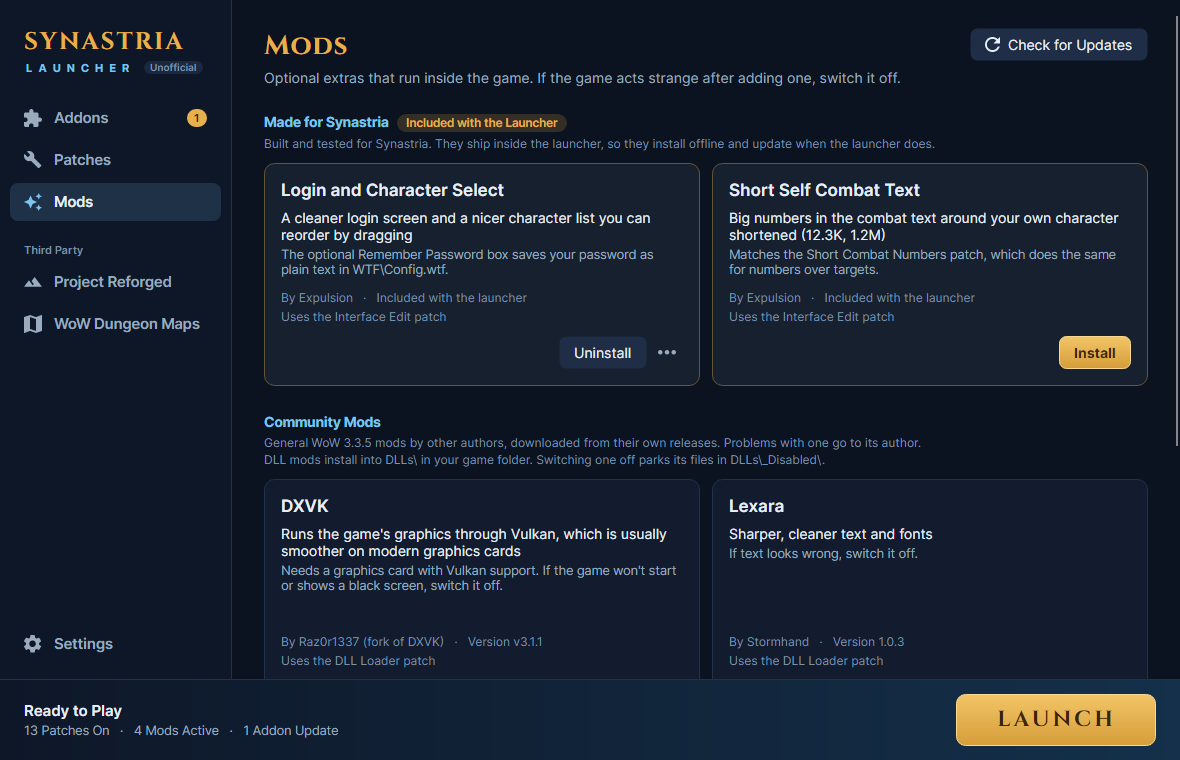
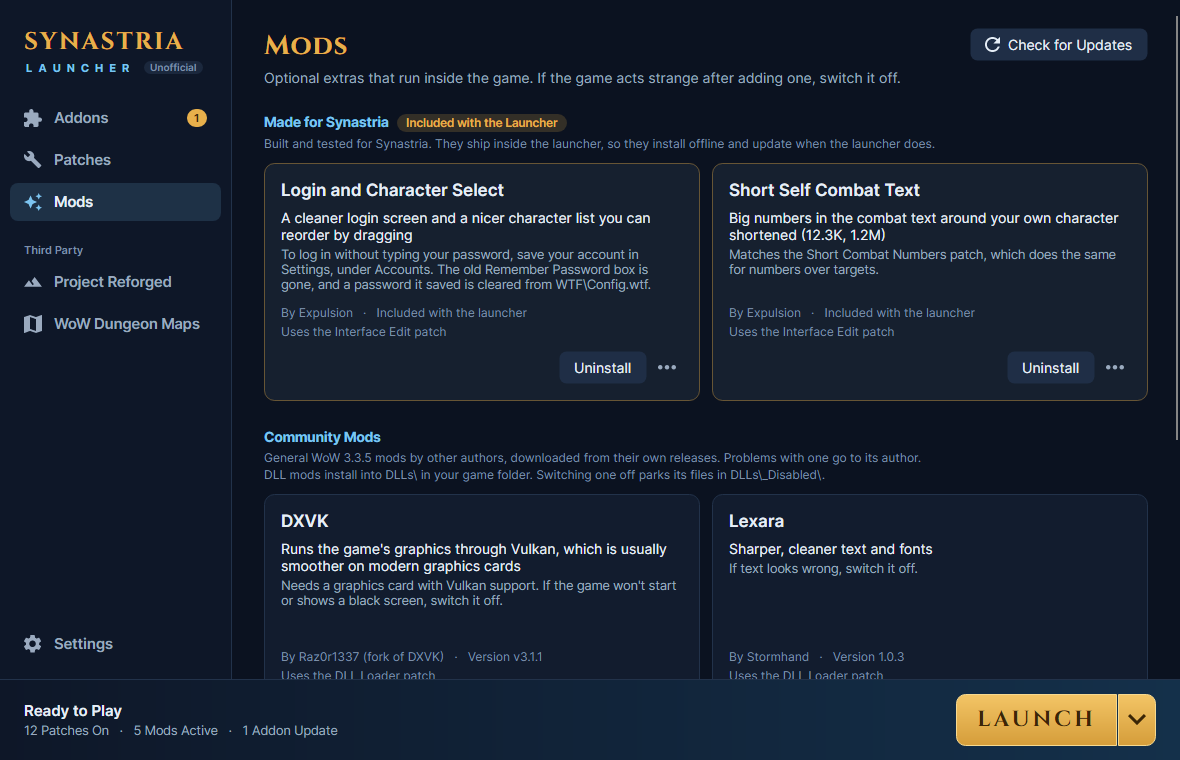
Refresh the README screenshots for 1.0.9

diff --git a/tools/Screens/Program.cs b/tools/Screens/Program.cs
@@ -84,6 +84,11 @@ if (args.Length > 1 && args[1] == "--readme")
     Pump(TimeSpan.FromSeconds(5));
     model.LauncherUpdate = null;
     model.LauncherUpdateStatus = "Up to Date";
+    // No saved accounts, so the Launch button shows no account name (in memory only; the tool never saves).
+    model.Data.Accounts.Clear();
+    model.Accounts.Load();
+    // This machine's Reforged parts may have updates waiting; a typical player's are up to date.
+    model.Reforged.UpdateCount = 0;
     string[] toInstall = ["SynScoots/ScootsCraft", "SynScoots/ScootsLibOptions", "RedeemedRiku/LootPop", "Sablinova-WoW/Soul-Forge",
         "RosemyneH/TheJournal", "speedyrulz/AttuneNext", "SynScoots/MehTrajectory", "RosemyneH/ResourceBankViewer",
         "SynScoots/ScootsRares", "SynScoots/ScootsProgressBar"];
@@ -131,6 +136,8 @@ if (args.Length > 1 && args[1] == "--readme")
 
     model.Page = LauncherPage.Wdm;
     Pump(TimeSpan.FromSeconds(20));
+    model.Reforged.UpdateCount = 0;
+    model.Play.Refresh();
     Shot("wdm");
     return;
 }

diff --git a/README.md b/README.md
@@ -134,7 +134,7 @@ Optional extras that run inside the game:
   - **Luxvelum:** better-looking fog and water.
   - **wow-optimize:** smoother game performance.
 
-![Mods: the Made for Synastria cards, two installed with Uninstall buttons and Short Self Combat Text ready to install](docs/images/mods.png)
+![Mods: the two Made for Synastria cards installed, with Uninstall buttons, and DXVK and Lexara under Community Mods](docs/images/mods.png)
 
 Each mod can be switched off without uninstalling it, and some have presets to choose from. If a mod needs a patch
 that's off, its card says so and can switch the patch on for you. If the game acts strange after adding a mod,
